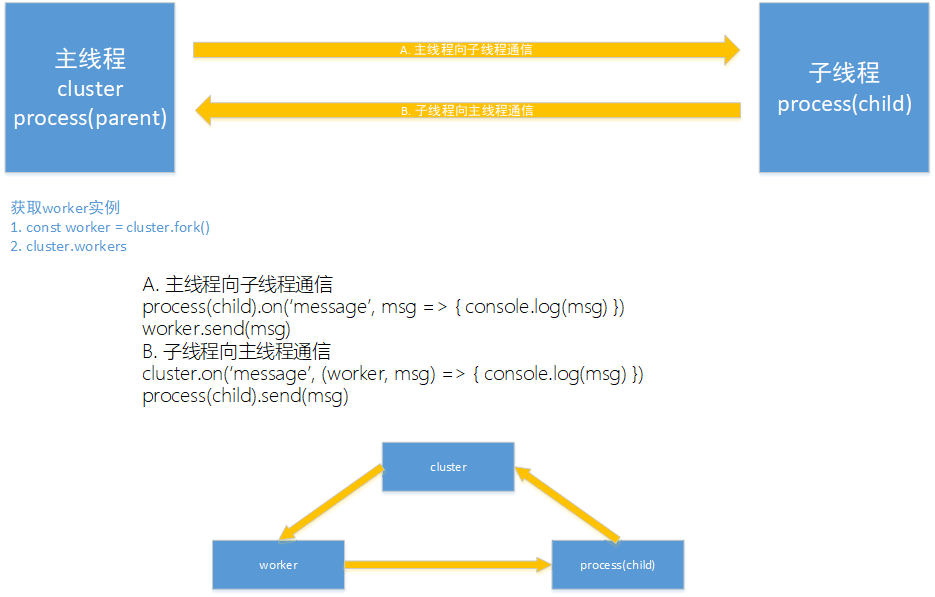
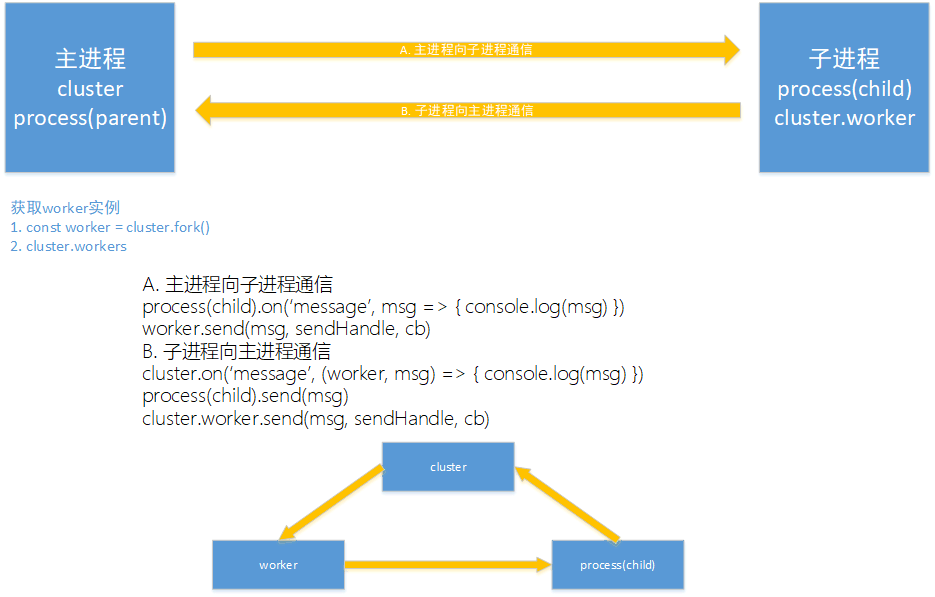
完善cluster文档

diff --git a/docs/cluster.md b/docs/cluster.md
@@ -1,47 +1,97 @@
 # Cluster集群学习
 
 ## 结论
-* 虽然平常通过设置为CPU线程数的工作线程，但是可以超过这个数，并且并不是主线程先创建
+* 虽然平常通过设置为CPU进程数的工作进程，但是可以超过这个数，并且并不是主进程先创建
 ```javascript
 if (cluster.isMaster) {
-  // 循环 fork 任务 CPU i5-7300HQ 四核四线程
+  // 循环 fork 任务 CPU i5-7300HQ 四核四进程
   for (let i = 0; i < 6; i++) {
     cluster.fork()
   }
-  console.log(chalk.green(`主线程运行在${process.pid}`))
+  console.log(chalk.green(`主进程运行在${process.pid}`))
 } else {
-
-  console.log(chalk.green(`子线程运行在${process.pid}`))
+  app.listen(1314) // export app 一个 Koa 服务器的实例
+  console.log(chalk.green(`子进程运行在${process.pid}`))
 }
-#子线程运行在17768
-#子线程运行在5784
-#子线程运行在11232
-#子线程运行在7904
-#主线程运行在12960
-#子线程运行在4300
-#子线程运行在16056
+#子进程运行在17768
+#子进程运行在5784
+#子进程运行在11232
+#子进程运行在7904
+#主进程运行在12960
+#子进程运行在4300
+#子进程运行在16056
 ```
-* 在主线程中 cluster 表示主线程(用于监听、发送事件), process 是本身的线程，worker 表示子线程，通过 cluster.workers 获取,该函数返回一个对象
-* 在子线程中 process 表示子线程(用于监听、发送事件)
+* 在主进程中 cluster 表示主进程(用于监听、发送事件), process 是本身的进程，worker 表示子进程，通过 cluster.workers 获取,该函数返回一个对象
+* 在子进程中 process 表示子进程(用于监听、发送事件)
 
-## 主线程子线程相互通信
+## 主进程子进程相互通信
 ![通信简图](../img/cluster.png)
 
-* **cluster** 用于监听 process(child) 子线程触发的各种事件
-* **worker** 只能在主线程中获取，用于和自身通信。当子线程触发事件时，会返回当前的 worker 以及相关的信息到主线程相应的事件中
-* **process(parent)** 主线程本身的线程实例，在通信过程中基本没有用到
-* **process(child)** 子线程本身的实例，只能在子线程获取用于监听自身的事件
+* **cluster** 用于监听 process(child) 子进程触发的各种事件
+* **worker** 只能在主进程中获取，用于和自身通信。当子进程触发事件时，会返回当前的 worker 以及相关的信息到主进程相应的事件中
+* **process(parent)** 主进程本身的进程实例，在通信过程中基本没有用到
+* **process(child)** 子进程本身的实例，只能在子进程获取用于监听自身的事件
 
-可见主线程与子线程通过这样一个三角关系互相通信，其中 cluster 和 worker 是在主线程中获取的，process(child) 是子线程。 cluster 通过操作 worker 通知子线程，子线程本身和 cluster 进行通信。为什么要这样设计呢？因为子线程会有多个，只有通过 worker 才能选择和哪个线程通信
+可见主进程与子进程通过这样一个三角关系互相通信，其中 cluster 和 worker 是在主进程中获取的，process(child) 是子进程。 cluster 通过操作 worker 通知子进程，子进程本身和 cluster 进行通信。为什么要这样设计呢？因为子进程会有多个，只有通过 worker 才能选择和哪个进程通信
 
-## 子线程的调度策略 cluster.schedulingPolicy
+## 子进程的调度策略 cluster.schedulingPolicy
 
 > 调度策略，包括循环计数的 cluster.SCHED_RR，以及由操作系统决定的cluster.SCHED_NONE。 这是一个全局设置，当第一个工作进程被衍生或者调动cluster.setupMaster()时，都将第一时间生效。除Windows外的所有操作系统中，SCHED_RR都是默认设置。只要libuv可以有效地分发IOCP handle，而不会导致严重的性能冲击的话，Windows系统也会更改为SCHED_RR。cluster.schedulingPolicy 可以通过设置NODE_CLUSTER_SCHED_POLICY环境变量来实现。这个环境变量的有效值包括"rr" 和 "none"。
 
-RR 即 Round-Robin 轮询调度，即每个子线程的获取的事件的机会是均等的，这是除 windows以外默认的。而 windows 下的调度策略很诡异，见下图。目前并没有相关 API 可以设置调度策略的算法，node 只为我们提供了两个值
-![线程调度算法](../img/线程调度算法.png)
+RR 即 Round-Robin 轮询调度，即每个子进程的获取的事件的机会是均等的，这是除 windows以外默认的。而 windows 下的调度策略很诡异，见下图。目前并没有相关 API 可以设置调度策略的算法，node 只为我们提供了两个值
+![进程调度算法](../img/进程调度算法.png)
 
-测试数据为 1000次 并发请求，重复测试20次，在windows下的表现情况。可见 windows 的调度算法表现的杂乱无章。如果是 RR 算法四条线程的调度应该处于同一横线上。暂时没在本地搭建 linux 环境，有条件的同学可以协助测试一波。
+测试数据为 1000次 并发请求，重复测试20次，在windows下的表现情况。可见 windows 的调度算法表现的杂乱无章。如果是 RR 算法四条进程的调度应该处于同一横线上。暂时没在本地搭建 linux 环境，有条件的同学可以协助测试一波。
 cluster的调度算法目前至于系统有关
+
+## 多进程间的鉴权问题
+> 注意：Node.js不支持路由逻辑。因此在设计应用时，不应该过分依赖内存数据对象（如sessions和login等）。由于各工作进程是独立的进程，它们可以根据需要随时关闭或重新生成，而不影响其他进程的正常运行。只要有存活的工作进程，服务器就可以继续处理连接。如果没有存活的工作进程，现有连接会丢失，新的连接也会被拒绝。Node.js不会自动管理工作进程的数量，而应该由具体的应用根据实际需要来管理进程池。
+
+文档中已明确说明了，每一个工作进程都是独立的，并且互相之间除了能够进行通信外，没有办法共享内存。所以在设计鉴权的时候，有两种方法
+1. 通过共有的主进程存储鉴权信息，每次前端提交帐号密码，授权完成后，将 token 发送给主进程，下次前台查询时先在主进程获取授权信息
+2. 通过统一的外部 redis 存取
+
+两种方法看来还是第二种好的不要太多，因此多进程的环境下，应该使用外部数据库统一存储 token 信息
+
+## 进一步的子进程间通信思考
+虽然 node 中并没有直接提供的进程间通讯功能，但是我们可以通过主进程相互协调进程间的通讯功能，需要定义标准的通信格式，例如
+```typescript
+interface cmd {
+  type: string
+  from: number
+  to: number
+  msg: any
+}
+```
+这样通过统一的格式，主进程就可以识别来自各个进程间的通信，起到进程通信中枢的功能
+
+## [egg.js](http://eggjs.org/) 中 agent 的实现
+```
+                +--------+          +-------+
+                | Master |<-------->| Agent |
+                +--------+          +-------+
+                ^   ^    ^
+               /    |     \
+             /      |       \
+           /        |         \
+         v          v          v
++----------+   +----------+   +----------+
+| Worker 1 |   | Worker 2 |   | Worker 3 |
++----------+   +----------+   +----------+
+```
+我们看到 egg 在多进程模型之间实现了一个 agent 进程，这个进程主要负责对整个系统的定期维护
+> 说到这里，Node.js 多进程方案貌似已经成型，这也是我们早期线上使用的方案。但后来我们发现有些工作其实不需要每个 Worker 都去做，如果都做，一来是浪费资源，更重要的是可能会导致多进程间资源访问冲突。举个例子：生产环境的日志文件我们一般会按照日期进行归档，在单进程模型下这再简单不过了：
+
+>每天凌晨 0 点，将当前日志文件按照日期进行重命名
+>
+>销毁以前的文件句柄，并创建新的日志文件继续写入
+
+
+>试想如果现在是 4 个进程来做同样的事情，是不是就乱套了。所以，对于这一类后台运行的逻辑，我们希望将它们放到一个单独的进程上去执行，这个进程就叫 Agent Worker，简称 Agent。Agent 好比是 Master 给其他 Worker 请的一个『秘书』，它不对外提供服务，只给 App Worker 打工，专门处理一些公共事务。
+
+这样我们可以指定一个进程作为 agent 进程，用于实现自己定义的事务。在 egg 中，主线程启动后 首先 fork agent进程，当 agent 进程启动完成后再启动具体的 worker 进程。参照上面的代码，相信这部分逻辑现在也不难实现了。这样 agent 就会获得 id 为1的进程
+
+## 最后
+P.S 勘误，图2中的线程应该为进程，独立的nodejs进程
 
 本文相关代码在 [github](../src/cluster)
